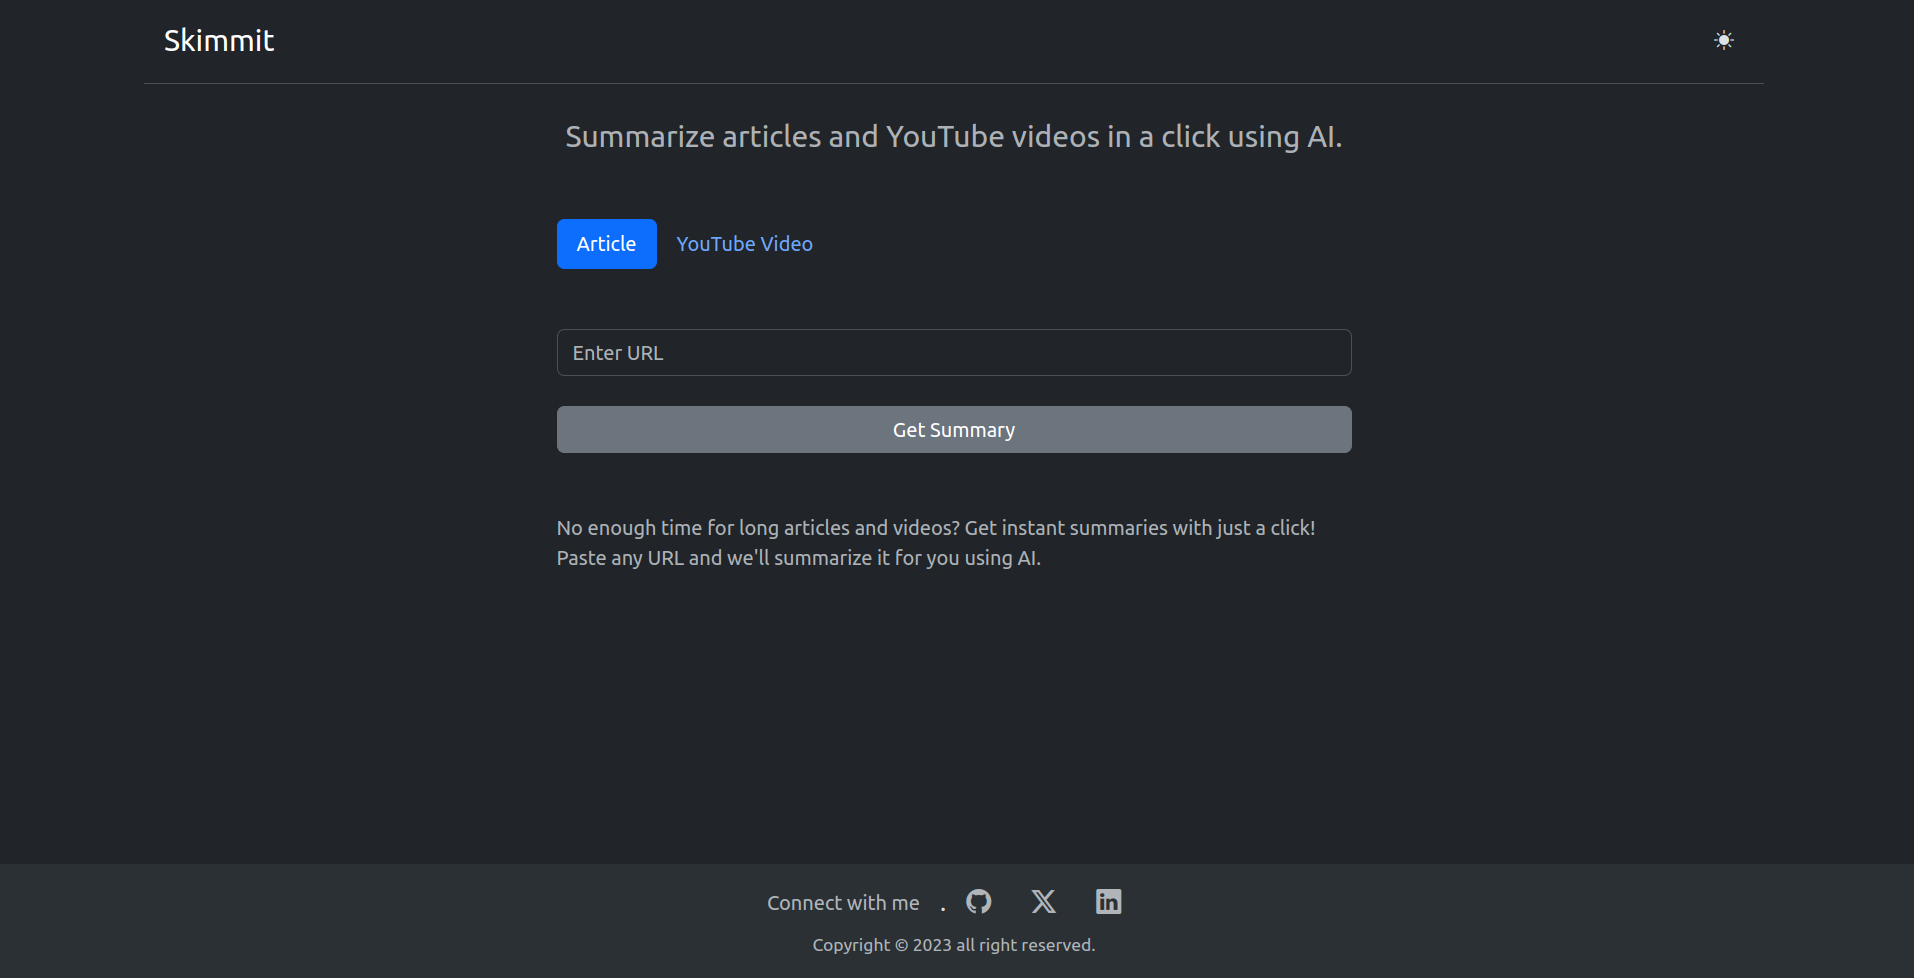
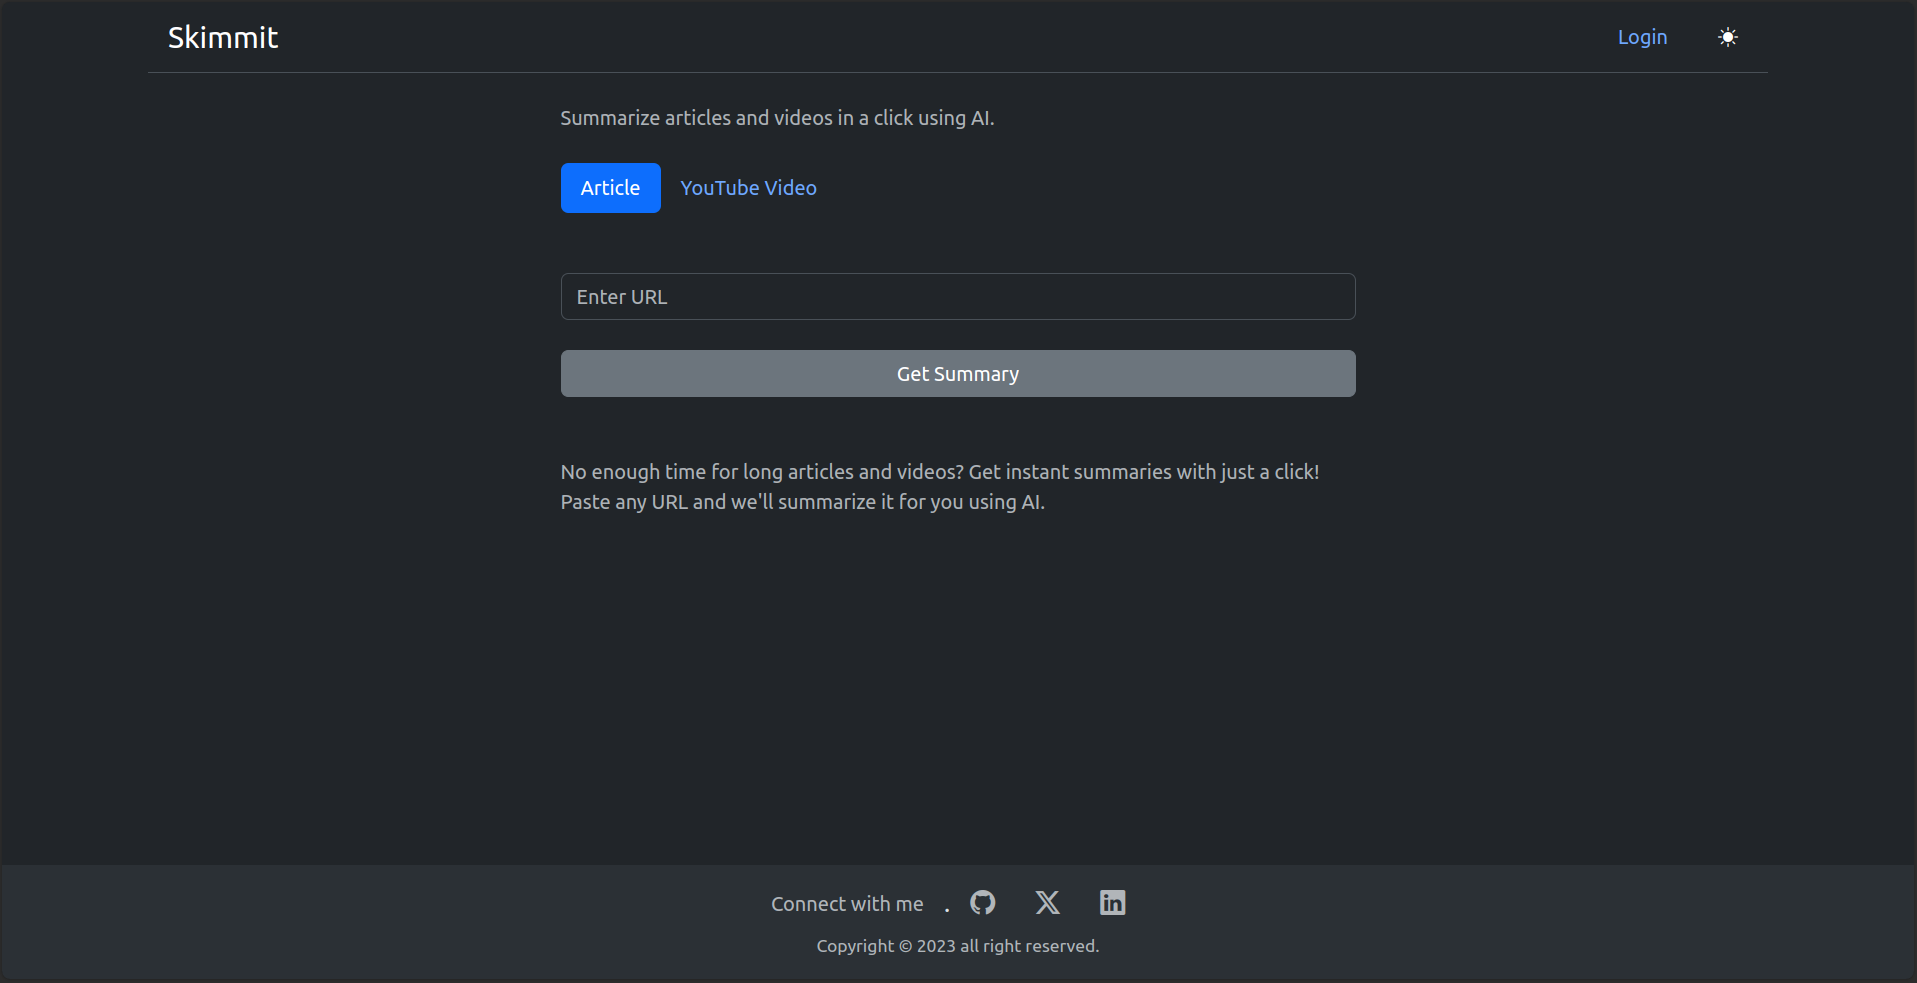
updated readme

diff --git a/README.md b/README.md
@@ -5,7 +5,7 @@
 <div align="center">
   <h3 align="center">Skimmit</h3>
   <p align="center">
-    Article and YouTube video summary from URL, powered by GPT-3.5
+    Article and YouTube video summary from URL, powered by GPT-3.5 & Gemini Pro
     <br />
     <a href="https://skimmit.onrender.com/">View Demo</a>
   </p>
@@ -26,7 +26,7 @@ The AI summaries powered by GPT-3.5 save you valuable time, making information c
 
 **Informed Choices**: Preview articles and videos before committing. Know what's inside and make informed decisions about what to read and watch. 
 
-This will be helpful when there are dozen of articles and videos on the subject you're interested in but not sure which one to pick.
+This will be helpful when there are dozens of articles and videos on the subject you're interested in but not sure which one to pick.
 
 <p align="right">(<a href="#readme-top">back to top</a>)</p>
 
@@ -35,18 +35,23 @@ This will be helpful when there are dozen of articles and videos on the subject 
 
 * Article summary from URL
 * YouTube video summary from URL
-* Uses LLM (GPT-3.5) for summarization 
+* LLM for summarization: ```GPT-3.5``` & ```Gemini Pro``` 
+* User preference: LLM model choice and summary length 
+* Bookmark summaries for later reading
 * Dark/Light theme
-* More features to come...
 
+If you don't want to create an account, you can use the following guest credentials.
+
+Email: ```guest@example.com``` <br>
+Password: ```welc0me2```
 
 <!-- What tech stack you use to develop the project? -->
 ### Built With
 
 * Python
 * Django
-* LLM (GPT-3.5)
-* PostgreSQL
+* LLM (GPT-3.5, Gemini Pro)
+* Bootstrap
 * Render
 
 <p align="right">(<a href="#readme-top">back to top</a>)</p>
@@ -62,8 +67,9 @@ To get a local copy up and running follow these example steps.
 ### Prerequisites
 
 * Python installed
-* OpenAI account
-
+* OpenAI API key
+* Gemini Pro API key
+* Email service (or setting up Google app password for your Gmail)
 
 ### Installation
 
@@ -86,6 +92,11 @@ To get a local copy up and running follow these example steps.
    DATABASE_URL= (managed PostgreSQL, optional)
 
    OPENAI_API_KEY=
+   GOOGLE_API_KEY=
+
+   EMAIL_HOST=
+   EMAIL_HOST_USER=
+   EMAIL_HOST_PASSWORD=
    ```
 
 4. Apply migrations and start the server. The server starts in production settings by default.
